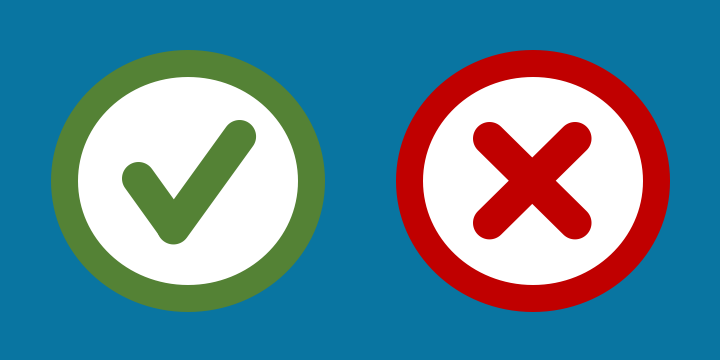
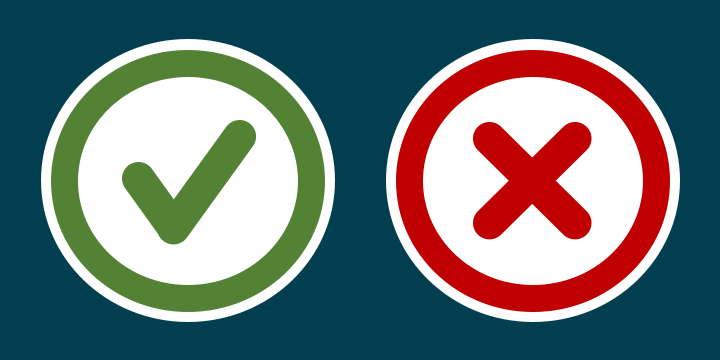
change color so not the same as computational hydrology page

diff --git a/docs/assets/css/style.css b/docs/assets/css/style.css
@@ -153,8 +153,8 @@ a:focus {
 .btn-theme.active,
 .open .dropdown-toggle.btn-theme {
   color: #fff;
-  background-color: #0a75a1;
-  border-color: #0a75a1;
+  background-color: #004054;
+  border-color: #004054;
 }
 
 .dmbutton:hover,
@@ -232,7 +232,7 @@ a:focus {
 ################################################################# */
 
 #headerwrap {
-	background-color: #0a75a1;
+	background-color: #004054;
 	min-height: 0px;
 	padding-top: 110px;
 	padding-bottom: 20px;
@@ -260,7 +260,7 @@ a:focus {
 }
 
 #service i {
-	color: #0a75a1;
+	color: #004054;
 	font-size: 60px;
 	padding: 15px;
 }
@@ -308,14 +308,14 @@ a:focus {
 {
 	height:100%;
 	width:100%;
-	background-color:#0a75a1;
+	background-color:#004054;
 	background-color:rgba(0,179,254,.9);
 	text-align:center;
 }
 
 /* Testimonials Wrap */
 #twrapback {
-    background-color: #0a75a1;
+    background-color: #004054;
     background-color:rgba(0,179,254,.8);
     position: absolute;
     top: 0;
@@ -392,7 +392,7 @@ a:focus {
 }
 
 #footerwrap i:hover {
-	color: #0a75a1
+	color: #004054
 }
 
 /*	################################################################
@@ -401,7 +401,7 @@ a:focus {
 /* General Tweaks */
 
 #blue {
-	background: #0a75a1;
+	background: #004054;
 	margin-top: 0px;
 	margin-bottom: 60px;
 	padding-top: 110px;
@@ -436,7 +436,7 @@ a:focus {
 }
 
 .ctitle {
-	color: #0a75a1;
+	color: #004054;
 	font-weight: 700;
 	margin-bottom: 15px;
 }
@@ -452,7 +452,7 @@ csmall {
 }
 
 .badge-theme {
-	background: #0a75a1;
+	background: #004054;
 }
 
 /* Contact Page */
